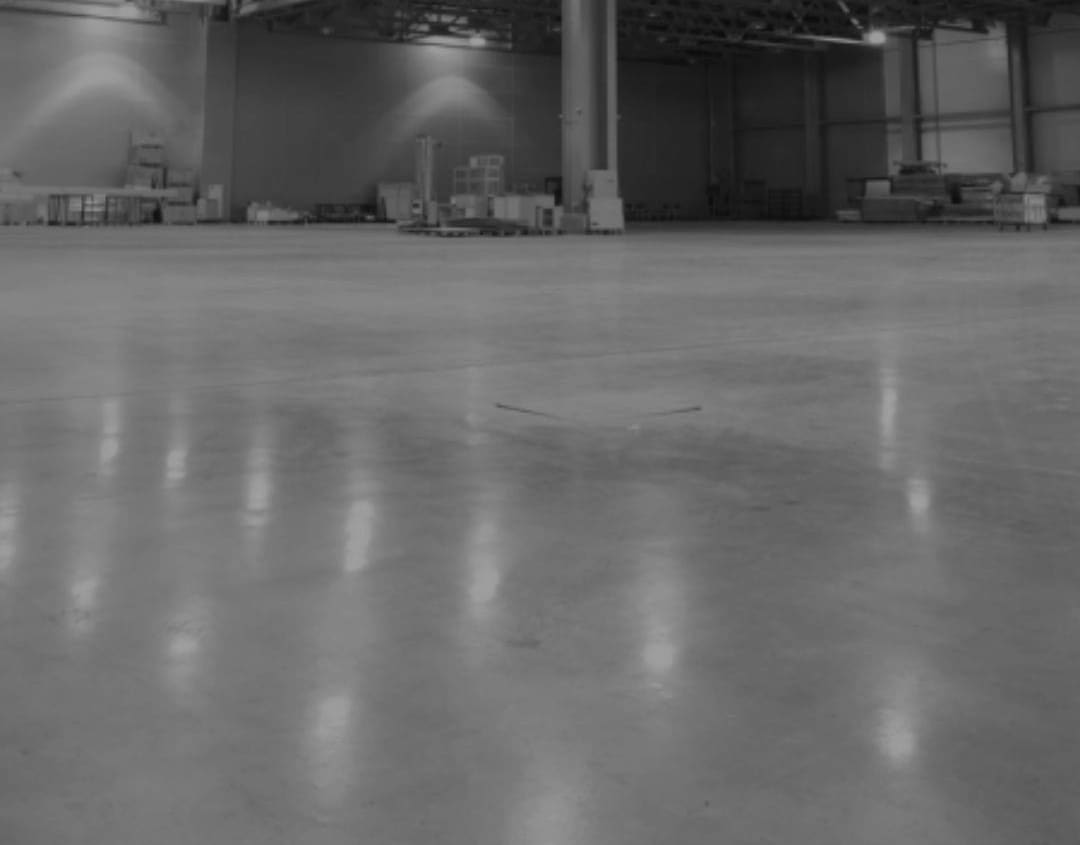
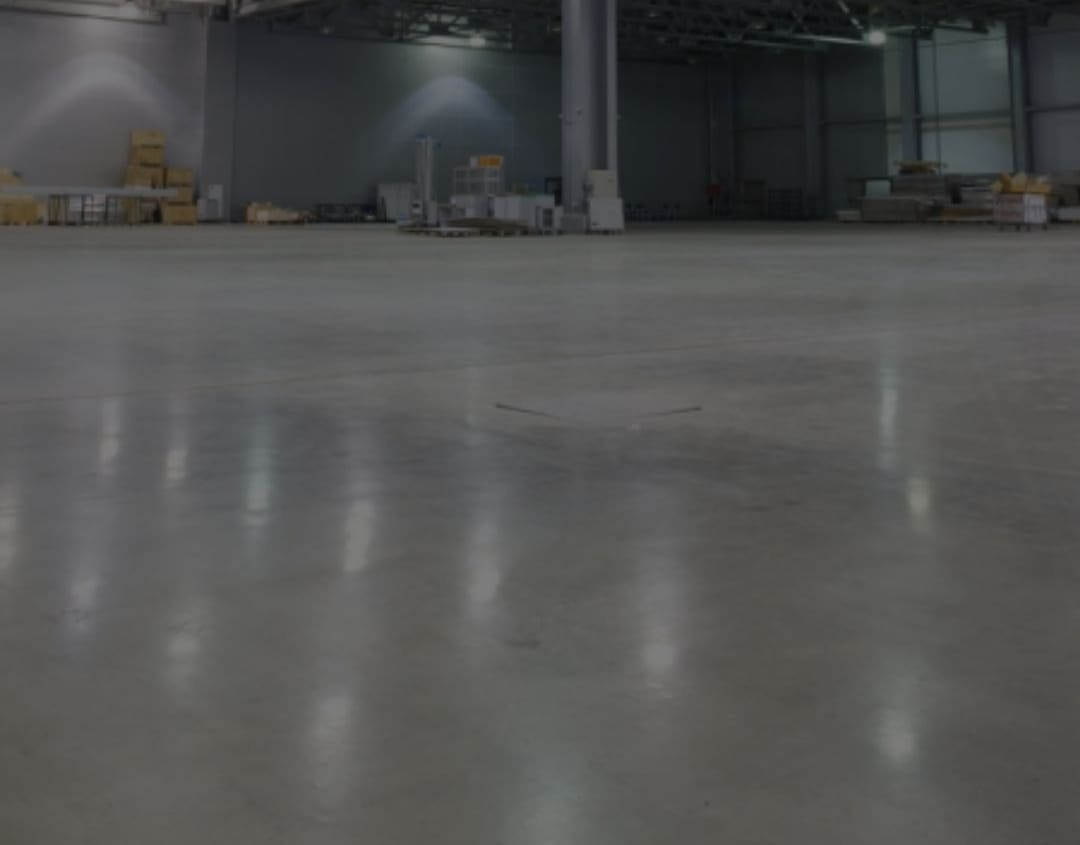
style: imagens coloridas

diff --git a/PROGRESSO.md b/PROGRESSO.md
@@ -55,3 +55,4 @@
 
 ## Melhoria 16: tema claro (pedido do cliente)
 - Paleta so branco, preto e azul-escuro (#0f2a52 / #0a1f3f); dourado removido. Fundos claros (#fff, #f4f7fb, #e6ecf5), texto preto, azul-escuro em botoes, destaques, indicadores, orcamento, Missao/Visao/Valores e rodape. Hero com banner sob veu azul. Tokens em globals.css (--bg, --bg-2, --bg-3, --navy).
+- Melhoria 17: imagens coloridas (grayscale removido de scripts/crop-images.mjs; 18 imagens regeradas dos originais).
